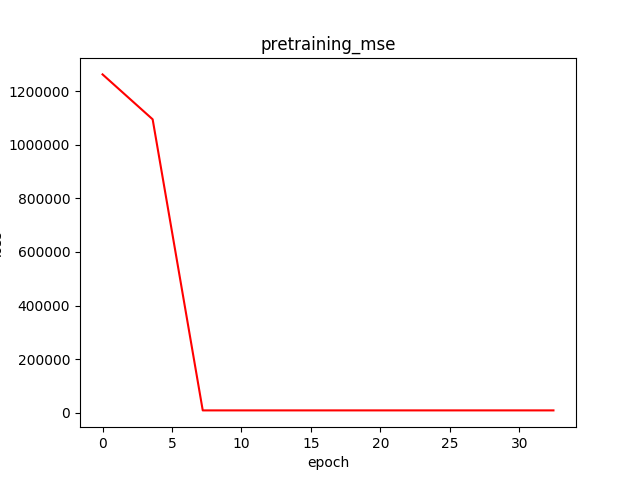
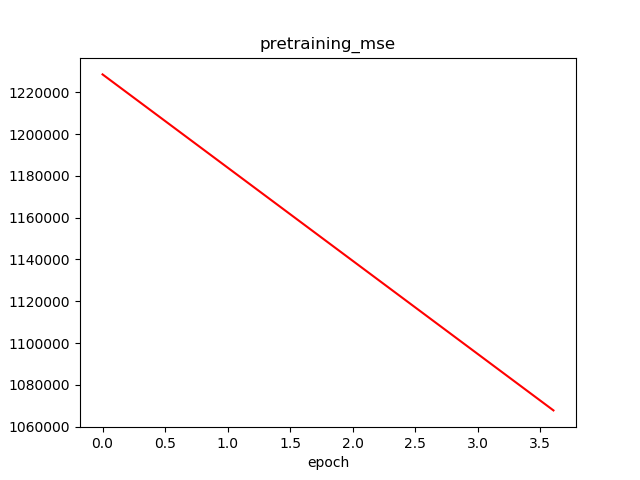
exahead training changes

diff --git a/python/FFNN_MODEL_001/Net.py b/python/FFNN_MODEL_001/Net.py
@@ -2,7 +2,7 @@
 ###############################################################################
 ###############################################################################
 '''
-THIS IS THE BEATAML ONLY NET FILE
+THIS IS THE SHARED NET FILE
 '''
 ###############################################################################
 ###############################################################################
@@ -18,6 +18,7 @@ import utils
 from matplotlib import pyplot as plt
 import os
 import pickle
+import copy
 
 class Net(torch.nn.Module):
 
@@ -66,7 +67,7 @@ class Net(torch.nn.Module):
 
         a3 = self.do(self.bn3(F.relu(self.fc3(a2))))                     # FC layer 3
 
-        aDS = [F.relu(FC(a3)) for FC in self.DSP]
+        aDS = [F.leaky_relu(FC(a3)) for FC in self.DSP]
         o = [out(a4) for a4, out in zip(aDS, self.out)]
         endout = torch.zeros(x.size(0), len(self.params['RESP_TYPES'].keys()),dtype=torch.float)
         for i,oo in enumerate(o): endout[:,i] = oo.squeeze()
@@ -114,7 +115,7 @@ class Net(torch.nn.Module):
                 loss.backward()
                 optim.step()
                 total_loss += loss.detach().numpy()
-                print(f'EPOCH: {epoch} [training set] \t mse: [{(total_loss/ii):.4f}]  \t |  Epoch progress: [{ii}/{len(self.train_gen.dataset)}] {"."*int(ii/(len(self.train_gen.dataset)/10))}', end = '\t\t\t\n')
+                if self.params['PRINT_MID_EPOCH_INFO']: print(f'EPOCH: {epoch} [training set] \t mse: [{(total_loss/ii):.4f}]  \t |  Epoch progress: [{ii}/{len(self.train_gen.dataset)}] {"."*int(ii/(len(self.train_gen.dataset)/10))}', end = '\t\t\t\n')
                 scheduler.step(total_loss)
                 mse.append((total_loss/ii))
                 self.plot_mse(mse, 'pretraining_mse')
@@ -145,6 +146,7 @@ class Net(torch.nn.Module):
         MAX_EPOCH = self.params['EPOCHS']
         tr_mse = []
         for epoch in range(MAX_EPOCH):
+
             total_loss = 0
             yhats=[]
             ys=[]
@@ -168,8 +170,7 @@ class Net(torch.nn.Module):
                 self.recorder['train']['batch-mse'].append(loss.detach().numpy()/X.size(0))
                 tr_mse.append(total_loss/ii)
                 self.plot_mse(tr_mse, 'training_sse')
-                print(f'Train set... mse: [{loss.detach().numpy()/(X.size(0)):.4f}] | Epoch progress: [{ii}/{len(self.train_gen.dataset)}] {"."*int(ii/(len(self.train_gen.dataset)/10))}', end = '\t\t\t\n')
-
+                if self.params['PRINT_MID_EPOCH_INFO']: print(f'Train set... mse: [{loss.detach().numpy()/(X.size(0)):.4f}] | Epoch progress: [{ii}/{len(self.train_gen.dataset)}] {"."*int(ii/(len(self.train_gen.dataset)/10))}', end = '\t\t\t\n')
 
             self.recorder['train']['total_loss'].append(total_loss)
             self.recorder['train']['mse'].append(total_loss/len(self.train_gen.dataset))
@@ -190,7 +191,7 @@ class Net(torch.nn.Module):
                 test_yhats += yhat.data.numpy()[resp_selector==1].ravel().tolist()
                 test_ys += y.data.numpy().ravel().tolist()
                 self.recorder['test']['batch-mse'].append(loss/X.size(0))
-                print(f'Test set... mse: [{loss/(X.size(0)):.4f}] | Epoch progress: [{jj}/{len(self.test_gen.dataset)}] {"."*int(jj/(len(self.test_gen.dataset)/10))}', end = '\t\t\t\n')
+                if self.params['PRINT_MID_EPOCH_INFO']: print(f'Test set... mse: [{loss/(X.size(0)):.4f}] | Epoch progress: [{jj}/{len(self.test_gen.dataset)}] {"."*int(jj/(len(self.test_gen.dataset)/10))}', end = '\t\t\t\n')
 
             self.recorder['test']['mse'].append(test_total_loss/len(self.test_gen.dataset))
 
@@ -199,9 +200,14 @@ class Net(torch.nn.Module):
                                 epoch=epoch, tr_loss=self.recorder['train']['mse'][-1],
                                 tst_loss=self.recorder['test']['mse'][-1])
 
-            if (epoch % self.params['PRINT_EVERY']) == 0:
+            if ((epoch + 1) % self.params['PRINT_EVERY']) == 0:
                 print()
                 print(f'>>> END EPOCH {epoch+1}/{MAX_EPOCH} || train total loss: {total_loss:.2f} | train mse: {total_loss/len(self.train_gen.dataset):.6f} || test total_loss: {test_total_loss:.4g} | test mse: {test_total_loss / len(self.test_gen.dataset):.4g} \t\t\t')
+
+            if (self.params['SAVE_MODEL_EVERY'] != -1) and ((epoch + 1) % self.params['SAVE_MODEL_EVERY'] == 0):
+                print('saving model.')
+                self.save_model()
+                self.plotter.save_gif(f"{self.params['MODEL_OUT_DIR']}/{self.params['NAME']}/training_fit.gif")
         print()
         print('training complete...')
         self.plotter.save_gif(f"{self.params['MODEL_OUT_DIR']}/{self.params['NAME']}/training_fit.gif")
@@ -254,7 +260,7 @@ class Net(torch.nn.Module):
 
         '''
         with open(f"{self.params['MODEL_OUT_DIR']}/{self.params['NAME']}/model.pkl", 'wb') as f:
-            pickle.dump(self, f)
+            pickle.dump(copy.copy(self), f)
 
     def save_params(self):
         '''

diff --git a/python/FFNN_MODEL_001/config--all_data.py b/python/FFNN_MODEL_001/config--all_data.py
@@ -19,8 +19,8 @@ params = {
 'N_BEATAML_PATIENTS_EXCLUSIVE_TO_TEST' : 30  ,          # remove patients for test
 # -----------------------------------------------------------------------------
 # -----------------------------------------------------------------------------
-
-
+'SAVE_MODEL_EVERY' : 5, # epochs
+'PRINT_MID_EPOCH_INFO' : False,
 # -----------------------------------------------------------------------------
 # -----------------------------------------------------------------------------
     ## `i` indicates the order of classification layers
@@ -41,9 +41,10 @@ params = {
 'PRINT_EVERY' : 1,
 'NGENES' : 523, #/ 523
 'EPOCHS' : 100,
-'LEARNING_WEIGHT' : 1e-2,
+'LEARNING_WEIGHT' : 1e-1,
 'WEIGHT_DECAY' : 0.01,
-'LR_DECAY_PATIENCE' : 100,       # batches (not epochs)
+'LR_DECAY_PATIENCE' : 20,       # batches (not epochs)
+
 'PRETRAIN_EPOCHS' : 1,
 'PRETRAIN_LR' : 1e-1,
 'PRETRAIN_WD' : 0.1,
@@ -56,11 +57,11 @@ params = {
 
 # -----------------------------------------------------------------------------
 # -----------------------------------------------------------------------------
-'train_params' : {'batch_size': 4*2048,
+'train_params' : {'batch_size': 2**14, #  16384
           'shuffle': True,
           'num_workers': 12},
 
-'test_params' : {'batch_size': 2048,
+'test_params' : {'batch_size': 2**14,
           'shuffle': False,
           'num_workers': 12}
 }

diff --git a/python/FFNN_MODEL_001/config--beatAML_data.py b/python/FFNN_MODEL_001/config--beatAML_data.py
@@ -26,15 +26,15 @@ params = {
 'N_BEATAML_PATIENTS_EXCLUSIVE_TO_TEST' : 30  ,          # remove patients for test
 # -----------------------------------------------------------------------------
 # -----------------------------------------------------------------------------
-
-
+'SAVE_MODEL_EVERY' : 2, # epochs
+'PRINT_MID_EPOCH_INFO' : True,
 # -----------------------------------------------------------------------------
 # -----------------------------------------------------------------------------
     ## `i` indicates the order of classification layers
 'RESP_TYPES' : {x:i for i,x in enumerate(['beatAML_AUC'])},
 
-'H1' : 4000,
-'H2' : 4000,
+'H1' : 1000,
+'H2' : 1000,
 'H3' : 1000,                # Layer 3 - Dataset Shared
 'DH' : 100,                # Dataset Specific Layer
 
@@ -42,12 +42,12 @@ params = {
 'NCONVS' : 10,
 'PRINT_EVERY' : 1,
 'NGENES' : 523, #/ 523
-'EPOCHS' : 200,
+'EPOCHS' : 5,
 'LEARNING_WEIGHT' : 1e-1,
 'WEIGHT_DECAY' : 0.1,
 'LR_DECAY_PATIENCE' : 75,       # batches (not epochs)
 
-'PRETRAIN_EPOCHS' : 5,
+'PRETRAIN_EPOCHS' : 1,
 'PRETRAIN_LR' : 1e-2,
 'PRETRAIN_WD' : 0.2,
 'PRETRAIN_DO' : 0.9,

diff --git a/python/UTILS/utils.py b/python/UTILS/utils.py
@@ -48,7 +48,7 @@ class Training_Progress_Plotter:
         self.axes[0].cla()
 
         ######### TRAIN #########
-        alpha_ = 284./len(tst_ys)
+        alpha_ = 0.5 #284./len(tst_ys)
 
         tr_df = pd.DataFrame({'y':tr_ys, 'yhat':tr_yhats})
         tr_df.sort_values(by='y', inplace=True)
@@ -274,9 +274,9 @@ def aggregate_labels(label_dict, keep):
                     test_labels = {**test_labels, **label_dict[dataset][split]}
                 if split == 'val':
                     val_labels = {**val_labels, **label_dict[dataset][split]}
-    try: 
+    try:
         aml_holdout = label_dict['beatAML_AUC']['PAT_HOLDOUT']
-    except: 
+    except:
         print('NO `beatAML_AUC` key in label_dict: returning None aml_holdout -BUG')
         aml_holdout=[]
     print()
